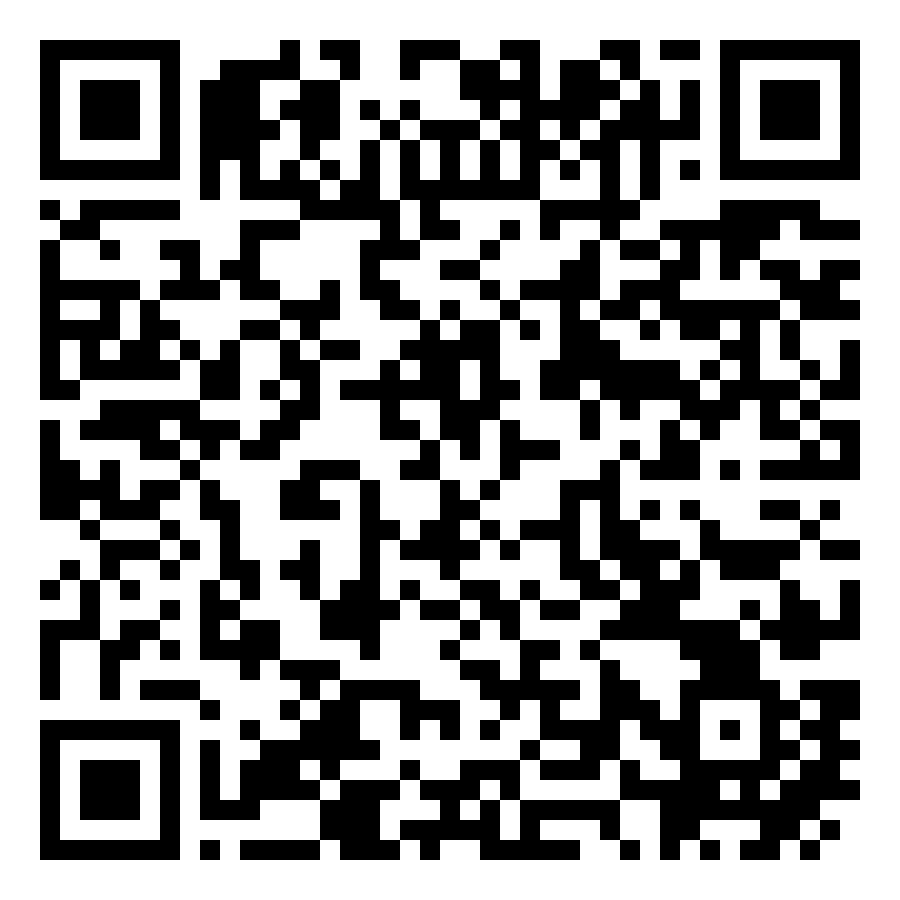
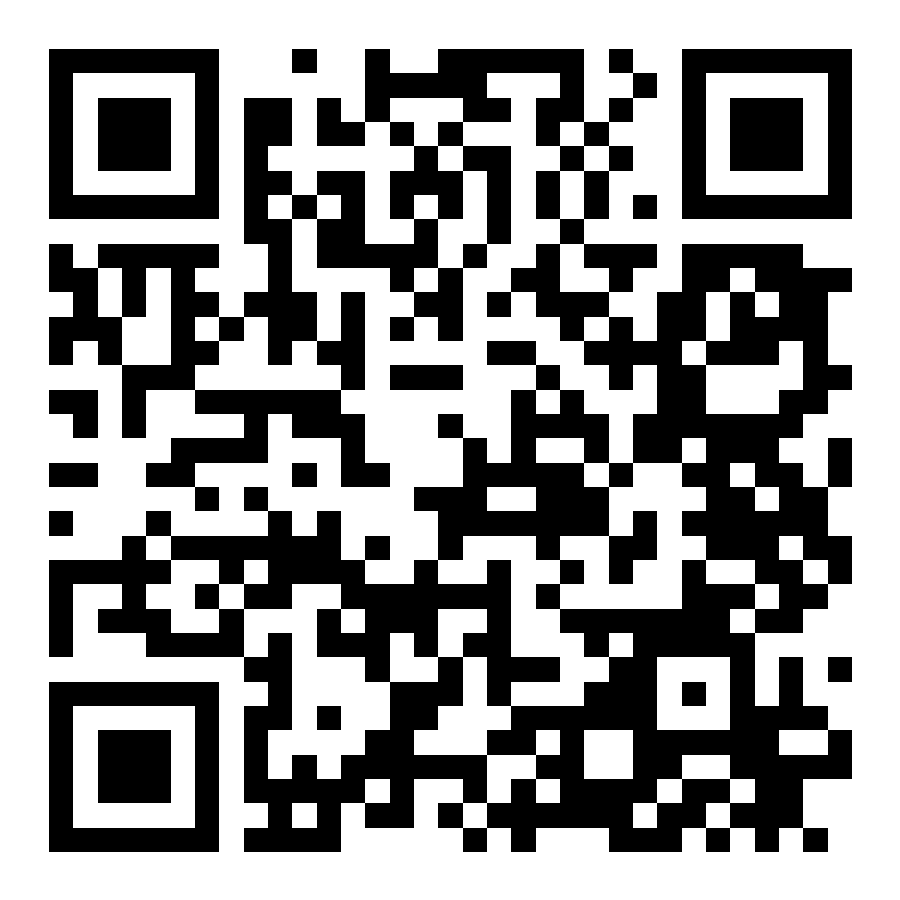
Finalize Pages URL and handoff

diff --git a/HANDOFF.md b/HANDOFF.md
@@ -92,7 +92,7 @@
       - 元ファイルは `/Users/minoru/Downloads/2dbarcodes_GW.zip` から展開。
     - `sample-hp-qr.png`
       - サンプルHP確認用QR。
-      - 現在はGitHubのHTMLプレビューURLを指している。
+      - 現在はGitHub Pages公開URLを指している。
 
 ## 公開URL
 
@@ -100,17 +100,17 @@ GitHubリポジトリ:
 
 `https://github.com/kdyoffice/kdy-exterior-sample`
 
-サンプルHPの暫定公開URL:
+サンプルHPの公開URL:
 
-`https://htmlpreview.github.io/?https://github.com/kdyoffice/kdy-exterior-sample/blob/main/index.html`
+`https://kdyoffice.github.io/kdy-exterior-sample/`
 
 注意:
 
 - GitHub Desktopから公開リポジトリ作成までは完了済み。
-- GitHub Pagesの本命URL候補は `https://kdyoffice.github.io/kdy-exterior-sample/`。
-- ただしGitHub Pages設定画面での有効化がブラウザ操作の不安定さにより完了していない。
-- 2026-05-10時点で `curl -I https://kdyoffice.github.io/kdy-exterior-sample/` は `404`。
-- 後でGitHubの `Settings > Pages` から Source を `Deploy from a branch`、Branch を `main / root` にして保存すれば、チラシ中央QRとLINE自動応答のサンプルURLを本命URLへ差し替える。
+- GitHub Pagesは有効化済み。
+- GitHubの `Settings > Pages` で Source は `Deploy from a branch`、Branch は `main / root`。
+- 2026-05-10時点で `curl -I https://kdyoffice.github.io/kdy-exterior-sample/` は `HTTP/2 200` を確認済み。
+- チラシ中央QRの `assets/sample-hp-qr.png` は、このGitHub Pages公開URLを指す。
 
 ## 現在のチラシ内容
 
@@ -276,13 +276,20 @@ HP・LINE導線・QR付き名刺までまとめて整えます。
 
 職人さん・施工店向けの見本サイトをご案内します。
 
-現在、サンプルHPの公開準備中です。
-公開URLができ次第、こちらから確認できるようにします。
+こちらからサンプルHPを確認できます。
+https://kdyoffice.github.io/kdy-exterior-sample/
+
+施工事例、料金目安、お客様の声、Googleマップ連携まで入れた見本サイトです。
 
 先に相談したい場合は、このまま
 「相談希望」
 と送ってください。
 ```
+
+注意:
+
+- LINE Official Account Manager上の `サンプル希望` 自動応答が、まだ上記の最新版に差し替わっていない可能性がある。
+- 次にLINE管理画面を触る時は、`サンプル希望` の応答文を上記に更新する。
 
 リッチメニュー:
 
@@ -339,6 +346,7 @@ PDF出力時に一度、スマホ用CSSが効いてA4なのに縦長レイアウ
 - メールアドレス `k.d.yoffice.co@gmail.com` を問い合わせ欄に追加済み。
 - ユーザー指示により、中央QRはサンプルHP確認用、右下のメール横QRはKDY Office LINE友だち追加用に修正済み。
 - サンプルHP確認用QRは `assets/sample-hp-qr.png`。
+- `assets/sample-hp-qr.png` は `https://kdyoffice.github.io/kdy-exterior-sample/` を指すQRとして再生成済み。
 - メール追加後に白紙2ページ目が出たため、`@media print` 側を調整。
   - `.flyer` を `height: 297mm`
   - `padding: 7mm`
@@ -383,11 +391,10 @@ strings flyer-a4.pdf | rg '^/Count '
    - 「お借りした写真」など、営業先に違和感がないか確認。
    - “御社”が硬すぎる場合は「あなたのお店」「貴社」などに調整。
 
-2. サンプルHP公開URLの反映
-   - 現在の中央QRは暫定のGitHub HTMLプレビューURL。
-   - GitHub Pagesを有効化できたら、中央QRを `https://kdyoffice.github.io/kdy-exterior-sample/` に差し替える。
-   - LINE自動応答の `サンプル希望` にも本命URLを追記する。
-   - 右下の問い合わせ欄QRはLINE友だち追加用のままでよい。
+2. LINE自動応答の最終更新
+   - GitHub Pages公開URLは確定済み。
+   - LINE自動応答の `サンプル希望` が未更新なら、上記の公開URL入り文面に差し替える。
+   - チラシ中央QRはサンプルHP公開URL、右下の問い合わせ欄QRはLINE友だち追加用のままでよい。
 
 3. サンプルHPの最終チェック
    - 施工事例写真の重複、不自然なBefore/After、スマホ表示を再確認。
